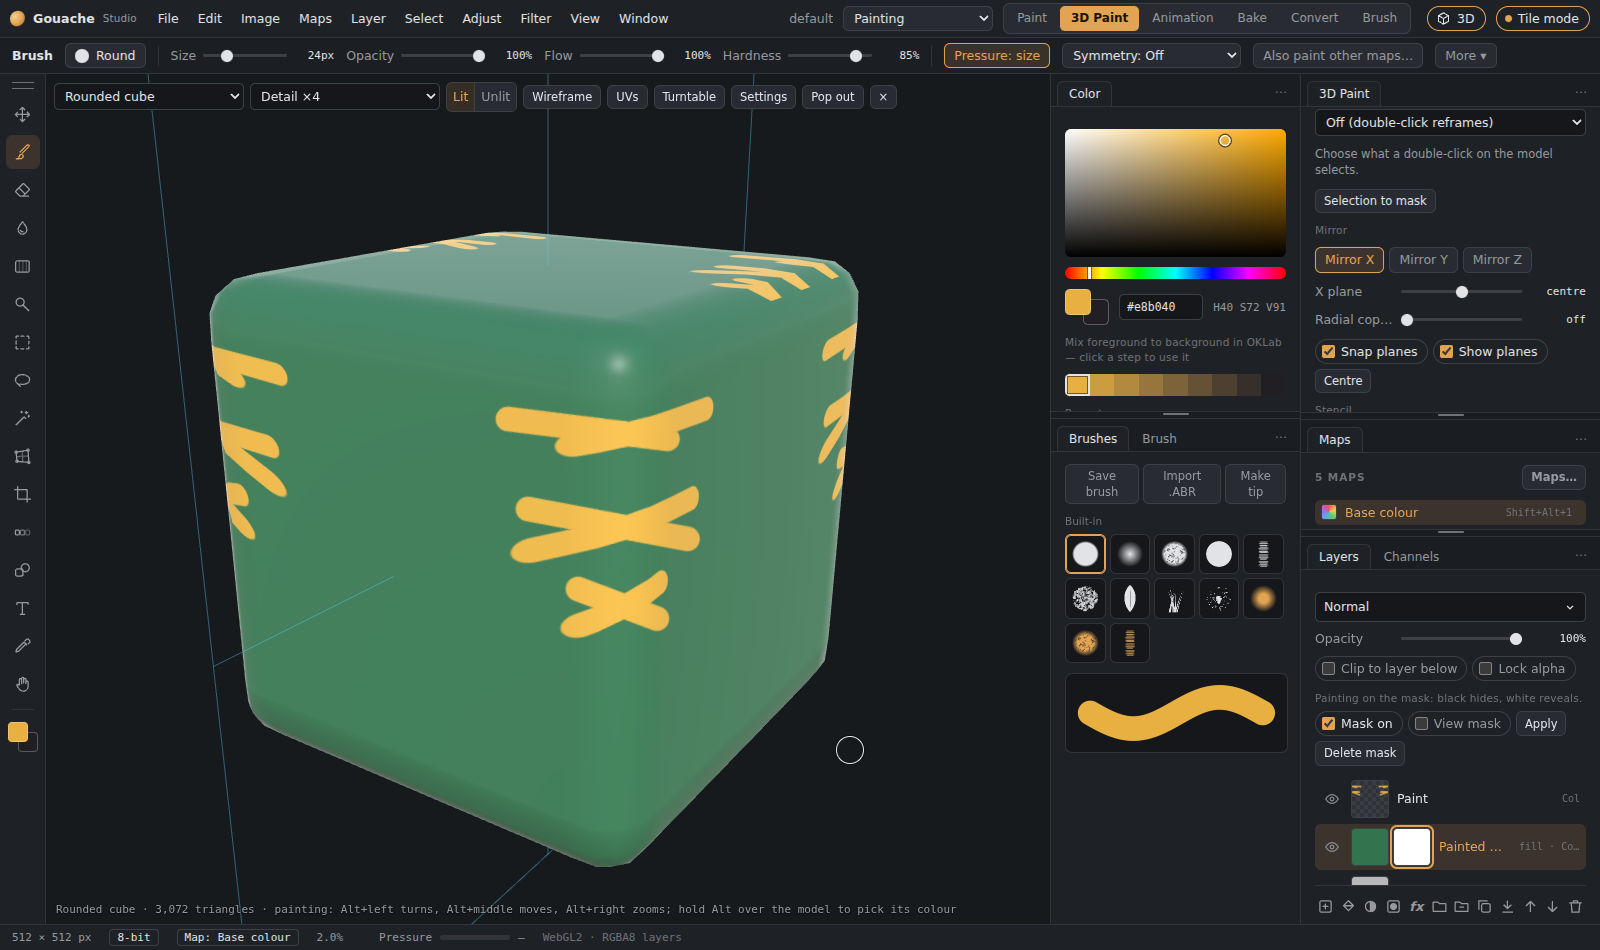
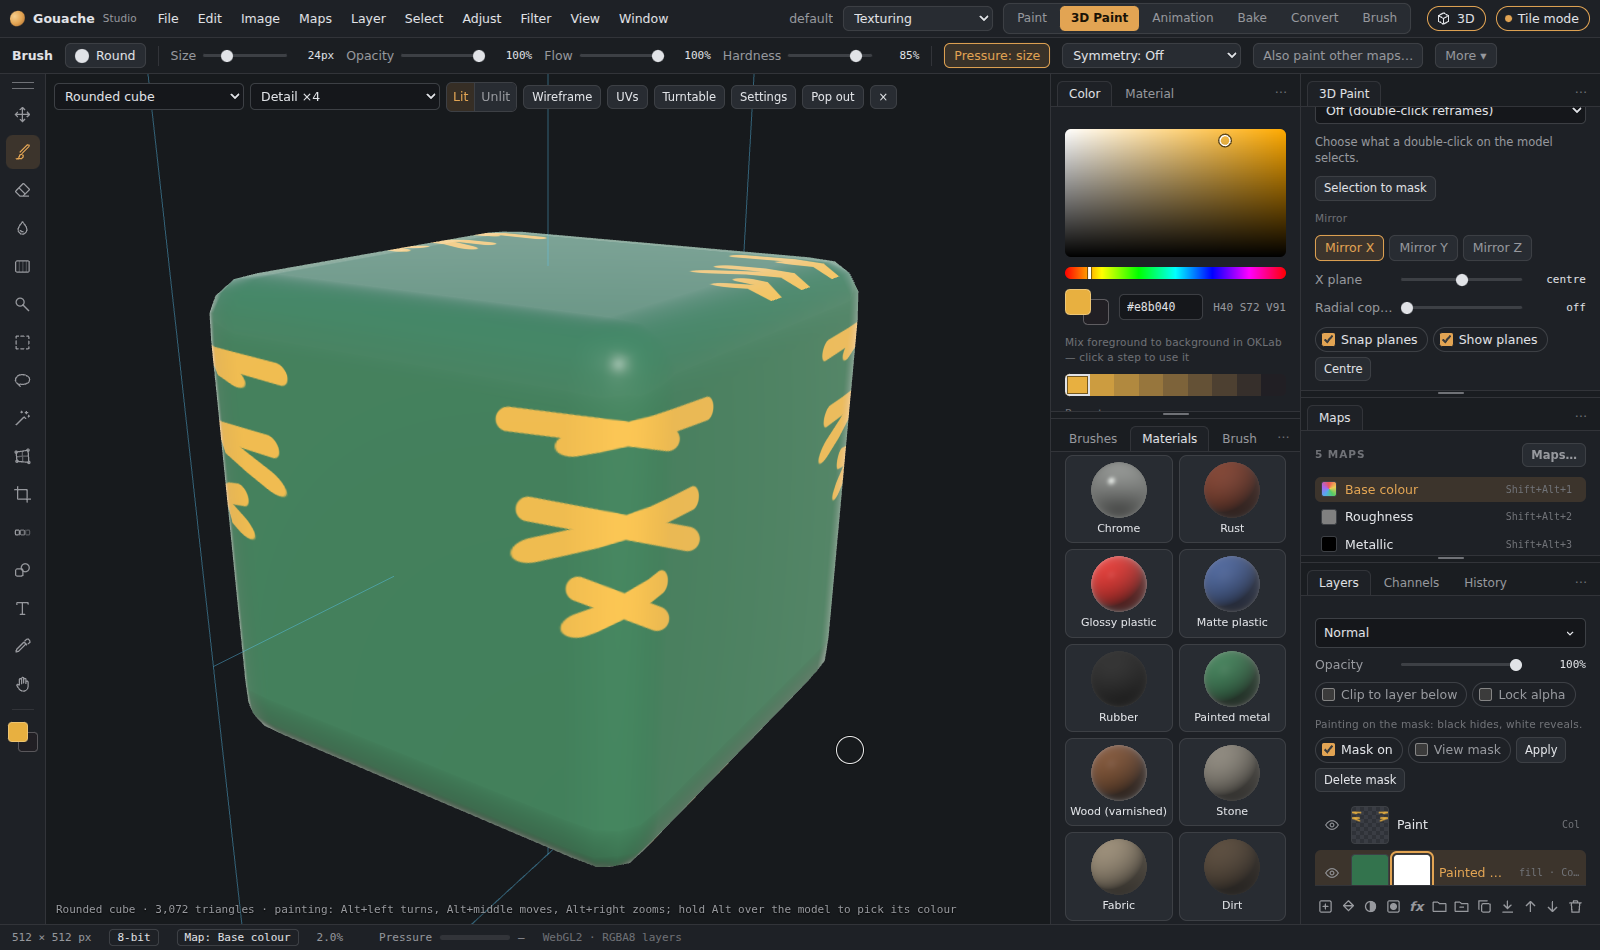
0.22.2 version, notes and guide
Claude-Session: https://claude.ai/code/session_01WJePYPrjK4D9b8oB4M9bDj

Changed region(s): [[0.6562, 0.0916, 1.0, 0.9768], [0.5312, 0.0, 0.5625, 0.0305]]

diff --git a/src/styles/app.css b/src/styles/app.css
@@ -601,3 +601,6 @@ body.noopt .optbar{display:none}
 .maskbar-row{flex-basis:100%;display:flex;align-items:center;gap:8px;flex-wrap:wrap;justify-content:center}.maskbar-row .srow,.maskbar-row .slider{min-width:150px}
 .idsw{width:20px;height:20px;border-radius:4px;border:1px solid var(--line);padding:0;cursor:pointer}
 .lvsimple{width:100%;max-width:420px;height:auto;touch-action:none;cursor:ew-resize}
+#matEdBody>*{min-width:0}#matEdBody .dlg-grid{min-width:0}#matEdBody .matHead{grid-template-columns:56px minmax(0,1fr)}#matEdBody .matprev{width:56px;height:56px}
+#matEdBody .seg{min-width:0}#matEdBody .segb{min-width:0;padding:4px 3px;font-size:11.5px;white-space:nowrap;overflow:hidden;text-overflow:ellipsis}
+#matEdBody input[type=text],#matEdBody select{width:100%;min-width:0}

diff --git a/docs/wiki/3D-Paint.md b/docs/wiki/3D-Paint.md
@@ -3,7 +3,9 @@
 The **3D Paint** tab (top right, next to Paint) is for painting straight onto a model, in the spirit of Substance Painter. It has its own textures, separate from the Paint tab, and saves as its own project file.
 
 ![The 3D Paint tab.](images/p3d-tab.png)
-*The model fills the painting area; Colour and Brushes sit in a column beside it; the 3D Paint panel, Maps and Layers are on the right.*
+*The model fills the painting area; Colour, Material, Brushes and Materials sit in a column beside it; the 3D Paint panel, Maps and Layers are on the right.*
+
+The column beside the view works like the rest of the dock: drag its tabs out (to float them or put them with other panels), or drag other tabs into it.
 
 ## Getting started
 1. Click **3D Paint** at the top right.
@@ -74,26 +76,35 @@ A **loop** is the ring of quads crossing the edge you click nearest to. Faces an
 ## Materials
 The **Materials** tab sits beside Brushes. Click a material (Steel, Gold, Copper, Rust, Rubber, Plastic, your own…) to add it as a **material layer**. If a selection is active, it becomes the layer's mask; otherwise paint the mask to show the material where you want it.
 
-**New material…** (or double-clicking a material layer's thumbnail) opens the **material editor**:
-- **Channels:** base colour, roughness, metallic, height, normal, emissive and opacity. Each one is a colour or value, or an image, with **Tile** and **Turn** for images.
+**New material…** makes a material layer and shows it in the **Material** panel (the tab beside Colour), which edits whichever material layer is selected. Double-clicking a material layer's thumbnail brings it forward.
+
+![The Material panel beside Colour, and the Materials tab.](images/material-panel.png)
+
+- **Channels:** base colour, roughness, metallic, height, normal, emissive and opacity. Each one is a colour or value, an **Image** (with **Tile** and **Turn**), or a **Mesh map**: one of the texture set's baked maps (AO, curvature, thickness…), laid over the model as baked.
 - **Height** makes bump detail on the model (the normal follows it), with a **Bump strength** slider.
 - **Projection:** *UV* follows the model's UVs. *Triplanar* projects images from three sides and blends them, so there are no seams. **Blend** sets how soft the joins are.
 - **Save to Materials** keeps the material, with its images, on this computer for other layers and projects. In the Materials tab, **⤓** exports one as a **.gmat** file and **Import…** brings one in.
 
-The layer stays live: open the editor again at any time and every channel updates.
+The layer stays live: every change shows straight away on the model, and becomes one undo step when you pause.
 
 ## Mesh maps (from the Bake tab)
 In the Bake tab, tick **Bake each material separately**, then press **Send to 3D Paint**. The model comes over, and each material's baked maps land in its own texture set as that set's **mesh maps** (listed in the 3D Paint panel), like Substance Painter's. They're what masks and smart materials will read.
 - The baked normal becomes a layer in the Normal map, so the high-poly detail shows on the model straight away.
 - **Add as layer** puts any mesh map in the layer stack.
 - Tick *also add them as layers* before sending to get AO (Multiply) and curvature (Overlay) layers automatically.
+- Material channels can use them (**Mesh map** in the Material panel), and **right-click a layer › Mask from mesh map** makes its mask from AO, curvature, thickness or height.
 
 ## Mask mode
 **Alt + click a layer's mask** to see it on the model in black and white, without lighting. A bar appears at the top:
+
+![Mask mode with ID colour.](images/mask-tools.png)
+
+- **Paint:** nothing paints the mask until this is on (white shows the layer, black hides it).
+- **Box**, **Lasso** and **Polygon** select what you can see of the model under the shape you draw. Drag inside the shape to move it; the selection follows when you let go. **Shift** adds, **Ctrl** takes away. For the polygon, click the corners, then double-click, click the first point or press **Enter**. On the flat texture they are the usual selection tools.
+- **ID colour** (like Substance Painter's colour selection): click the model (or the flat texture) to pick colours of the texture set's baked **ID** map. Those colours turn white in the mask, the rest black. **Tolerance** sets how close a colour counts, **Softness** the edge, **Invert** swaps them; click a colour swatch to remove it. It stays with the layer, so you can come back and change it.
 - **Fill white** / **Fill black** (inside the selection, if there is one) and **Invert**.
 - **Double-click:** choose Object, Material, UV island, Face or Loop, then double-click the model. That part turns white in the mask; **Ctrl + double-click** turns it black.
-- Painting paints the mask.
-- **Done** (or **Esc**, or Alt + click again) goes back to the material.
+- **Done**, **Esc**, Alt + click again, or clicking the layer's own thumbnail goes back to the material.
 
 ## From Paint
 In the Paint tab, **File › Send to 3D Paint** flattens the painting (every map it shares with 3D Paint) into a new layer of the active texture set, keeping its proportions. Hide the background first to keep transparency. In 3D Paint, press **Ctrl + T** to move and scale it.

diff --git a/docs/wiki/Layers.md b/docs/wiki/Layers.md
@@ -31,7 +31,9 @@ In documents with several maps, each layer has **a blend mode per map**. The mod
 ## Masks
 **Add mask** starts a mask that shows everything; **Add hide-all mask** starts one that hides everything. If a selection is active, the new mask is made from it.
 
-Click the mask thumbnail to paint the mask. **Shift+click** turns the mask off or on, and **Alt+click** views it (with a bar to fill, invert or pick parts of the model; see [3D Paint](3D-Paint.md#mask-mode)). **Layer › Apply mask** bakes the mask into the layer; **Delete mask** removes it.
+Click the mask thumbnail to paint the mask. **Shift+click** turns the mask off or on, and **Alt+click** views it (with a bar to paint, fill, invert, select with a box, lasso or polygon, or pick ID colours; see [3D Paint](3D-Paint.md#mask-mode)).
+
+**Right-click › Mask from mesh map** makes the mask from a baked map of the texture set: AO, curvature, thickness or height. **Layer › Apply mask** bakes the mask into the layer; **Delete mask** removes it.
 
 **Pictures into a mask** (light shows the layer, dark and see-through parts hide it):
 - **Paste:** click the mask thumbnail, then **Ctrl+V**. A copied part (or an image copied in another program) lands in the mask with Free transform on: move or scale it, then press **Enter**. This works in the quick mask (Q) too.
@@ -41,15 +43,16 @@ Click the mask thumbnail to paint the mask. **Shift+click** turns the mask off o
 ## Fill (material) layers
 A fill layer is like one in Substance Painter: a material that fills each map with one colour or value, or with a picture. Make one with **Layer › New fill layer…**, the fill button under the layers, or the right-click menu. If a selection is active it becomes the fill layer's mask.
 
-![The fill layer settings.](images/fill-layer.png)
-*A steel fill: grey base colour, roughness 35%, metallic 100%.*
+![The Material panel.](images/material-panel.png)
+*The Material panel (beside Colour) edits the selected fill layer.*
 
 - For each map (base colour, roughness, metallic, height, normal, emissive, opacity and the others in the document), tick it to fill it and choose **Colour/Value** or **Image**. A value is a slider (for example roughness 80%, metallic 100%). An image is stretched over the canvas; **Tile** repeats it and **Turn** rotates it.
 - **Height** images make bump detail (the normal follows the height), with **Bump strength**.
 - **Projection: Triplanar** lays images over the 3D model from three sides, with no seams (it needs a model in the 3D view or 3D Paint).
-- The editor offers to add any map the document is missing. **Save to Materials** keeps the material in the Materials tab (see [3D Paint](3D-Paint.md#materials)).
+- Each channel can also take a **Mesh map**: one of the baked maps of the texture set (AO, curvature…; see [3D Paint](3D-Paint.md#mesh-maps-from-the-bake-tab)).
+- The panel offers to add any map the document is missing. **Save to Materials** keeps the material in the Materials tab (see [3D Paint](3D-Paint.md#materials)).
 - **Painting on a fill layer paints its mask:** black hides the fill, white shows it. So you can paint where the metal or the rust goes.
-- **Double-click its thumbnail** (or right-click › Fill settings…) to change it later. **Convert to pixels** makes it a normal layer.
+- The settings are in the **Material** panel, a tab beside Colour. It shows the selected fill layer and changes it live; each change becomes one undo step once you pause. **Double-click its thumbnail** (or right-click › Fill settings…) brings the panel forward. **Convert to pixels** makes it a normal layer.
 - Fill layers are kept in .gouache files with their images, so they stay editable.
 
 ## History

diff --git a/docs/wiki/Baker.md b/docs/wiki/Baker.md
@@ -23,7 +23,9 @@ Under the model rows, the tabs hold the settings. A dot marks the maps that will
 - **Normal:** OpenGL style (green up). For DirectX engines, flip green when exporting (*File › Export textures*).
 - **AO:** Rays, Reach and **Spread** (narrower keeps the shading to deep cavities).
 - **Curvature:** see below.
-- **Height**, **Thickness** (its own Rays and Reach) and **Other** (world-space normal, position, ID colours).
+- **Height**, **Thickness** (its own Rays and Reach), **World normal**, **Position** and **ID** (where its colours come from). Every bake has its own tab; a dot marks the ones that will be baked.
+
+![The Bake tab's tabs.](images/bake-tabs.png)
 
 ![The Bake panel's tabs.](images/bake-tabs.png)
 *The map tabs, here AO.*
@@ -56,7 +58,7 @@ Each map arrives as a **plain layer** (no folders), so you can set blend modes b
 - **Cage:** either *Push out by the front distance*, or load a **cage model**, which is your low-poly pushed outwards with the same vertices and triangles.
 
 ## ID colours
-In the **Other** tab, *ID colours from* chooses where the ID map's colours come from:
+In the **ID** tab, *ID colours from* chooses where the ID map's colours come from:
 - **Separate meshes:** one colour per object in the file.
 - **Materials:** one colour per material.
 - **Vertex colours:** the colours painted on the high-poly's vertices (OBJ, glTF, FBX).
@@ -85,7 +87,7 @@ If parts of the high-poly are missed, raise the distances. If detail from other 
 | Thickness (white = thick) | Base colour, hidden | Base colour, hidden |
 | World-space normal | Base colour, hidden | Base colour, hidden |
 | Position (gradient over the model's box) | Base colour, hidden | Base colour, hidden |
-| ID colours (Other tab: **separate meshes**, **materials**, **vertex colours** or **ZBrush polypaint**; Auto uses vertex colours, else materials) | Base colour, hidden | Base colour, hidden |
+| ID colours (ID tab: **separate meshes**, **materials**, **vertex colours** or **ZBrush polypaint**; Auto uses vertex colours, else materials) | Base colour, hidden | Base colour, hidden |
 
 Each baked map arrives in **its own group** (“Baked normal”, “Baked AO”…), so they're easy to find in the layer stack. Maps the document doesn't have yet are added for you. Groups for maps that live in the base colour (thickness, world-space normal, position, ID) start hidden so they don't cover your colours: show one, or use it as a mask with *Select › Load selection*.
 

diff --git a/RELEASE_NOTES.md b/RELEASE_NOTES.md
@@ -1,3 +1,13 @@
-A quick fix for 0.22.
+3D Paint feels more like Substance Painter: a Material panel, mask tools and ID colour masks.
 
-- **FBX models with vertex colours load again.** 0.22 stopped them with "Cannot access 'cnt' before initialization".
+- **Material panel** beside Colour: it edits the selected material layer live (no more pop-up window). Each change is one undo step once you pause.
+- **Mesh map** in materials: any channel can use one of the texture set's baked maps (AO, curvature, thickness…).
+- **Right-click a layer › Mask from mesh map**: the mask becomes the baked AO, curvature, thickness or height.
+- **Mask mode** (Alt+click a mask):
+  - Nothing paints until you press **Paint**.
+  - **Box**, **Lasso** and **Polygon** select what you see on the model. Drag inside the shape to move it.
+  - **ID colour**: click the model to pick colours of the baked ID map; they turn white in the mask. Tolerance, Softness and Invert, and it stays editable.
+  - Clicking the layer's own thumbnail leaves mask mode.
+- The **column beside the 3D view** (Colour, Material, Brushes, Materials) can be rearranged: drag tabs out of it or into it.
+- **Bake tab:** every bake has its own tab (World normal, Position and ID replace "Other").
+- **Levels** has a simple layout like Substance Painter's: drag the handles under the histogram and on the output bar. Sliders are one click away.

diff --git a/docs/wiki/Home.md b/docs/wiki/Home.md
@@ -60,6 +60,6 @@ Gouache Studio is a GPU-powered painting and texture app for hand-painted and PB
 | 16 | Shapes with bevels, Array tool, layer styles | 0.19 |
 | 17 | Fill layers, own canvas for Bake and Convert, bake export, right-click layer menu, resizable dock | 0.20 |
 | 18 | 3D Paint tab (texture sets, Substance-style layers, mirror, stencils, selections) | 0.21 |
-| 19 | Material layers and the Materials tab, triplanar, mask mode, bake to 3D Paint per material, ID from vertex colours/polypaint, floating dialogs, History, lazy mouse | 0.22 |
-| 20 | Mask Builder (generators, smart masks), mask effects, smart materials, anchor points, baking inside 3D Paint | 0.23 |
+| 19 | Material layers and the Materials tab, triplanar, mask mode, bake to 3D Paint per material, ID from vertex colours/polypaint, floating dialogs, History, lazy mouse; Material panel, mesh maps in materials and masks, mask tools and ID colour masks, Substance-style Levels (0.22.2) | 0.22 |
+| 20 | Layer stacks inside masks, Mask Builder (generators, smart masks), mask effects, smart materials, anchor points, baking inside 3D Paint | 0.23 |
 | 21 | PBR viewer with HDRIs, screenshots, ray-traced and turntable renders | 0.24 |

diff --git a/docs/wiki/Panels-and-workspaces.md b/docs/wiki/Panels-and-workspaces.md
@@ -11,7 +11,7 @@ The strip under the menus holds what you change all the time. For the brush, era
  Other tools show their name; their settings are in **Tool settings**. **Window › Options bar** hides it.
 
 ## The dock
-The right side is a column of **groups**; each group holds one or more panels as **tabs**: Color, Brushes, Tool settings, Maps, Layers and Channels (plus Bake, Convert, Animation and Brush maker in their tabs of the app).
+The right side is a column of **groups**; each group holds one or more panels as **tabs**: Color, Material, Brushes, Materials, Tool settings, Maps, Layers, Channels and History (plus Bake, Convert, Animation and Brush maker in their tabs of the app).
 - **Click a tab** to bring it to the front. **Double-click** it to fold the group down to its tabs (again to unfold).
 - **Drag the bars** between groups to make them taller or shorter.
 - **Drag the dock's left edge** to make the whole dock wider or narrower. Double-click the edge to go back to the usual width.

diff --git a/docs/wiki/Converters-and-filters.md b/docs/wiki/Converters-and-filters.md
@@ -33,7 +33,9 @@ Only the Normal map is in colour. Every other converted map is grey and lands in
 *Levels.*
 
 - **Color adjustments** (Ctrl+U): exposure, brightness, contrast, saturation, hue, temperature.
-- **Levels** (Ctrl+L): input black, midtones and input white; output black and white; per channel, with a histogram and **Auto**.
+- **Levels** (Ctrl+L): input black, midtones and input white; output black and white; per channel, with a histogram and **Auto**. **Simple** (the usual layout, like Substance Painter's) has handles to drag under the histogram and on the output bar, and **Invert**; **Sliders** shows a slider for each value.
+
+  ![Levels, simple layout.](images/levels-simple.png)
 - **Curves** (Ctrl+M):
   - click the curve to add a point, drag to move it, drag it off the box to remove it;
   - works per channel;
